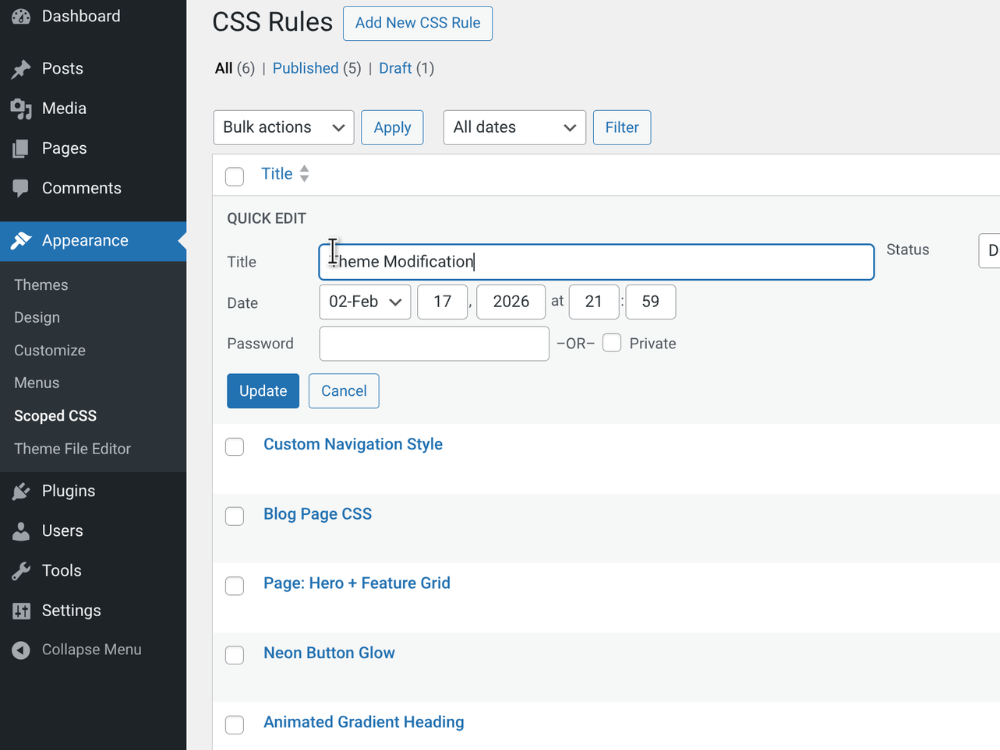
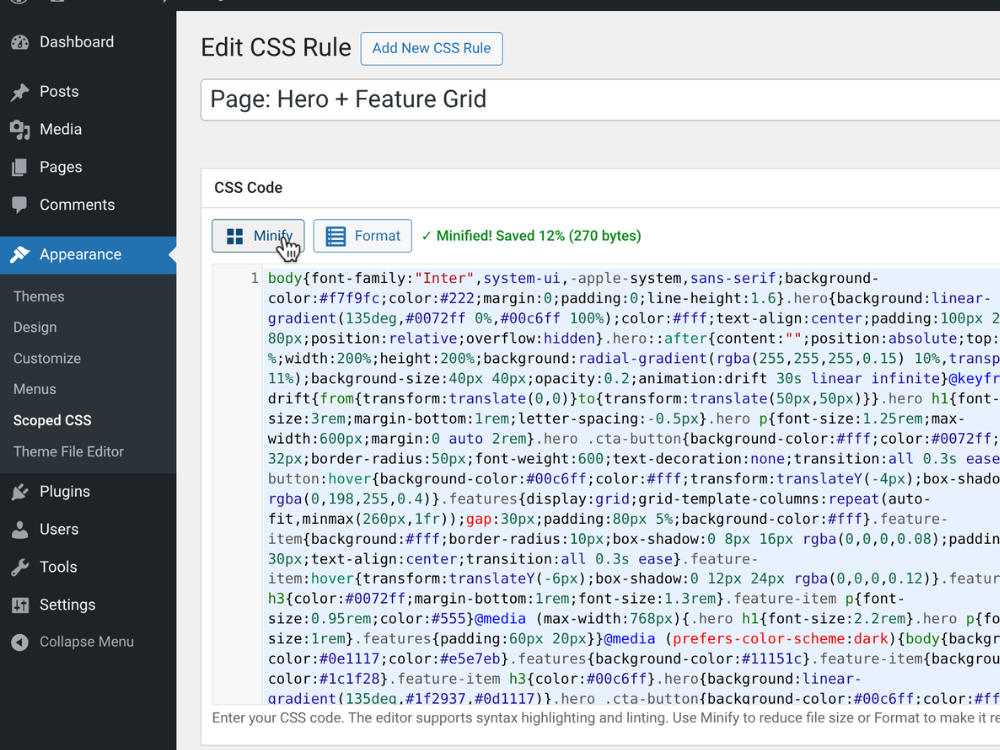
Release commit

diff --git a/readme.md b/readme.md
@@ -2,15 +2,31 @@
 
 [![WordPress](https://img.shields.io/badge/WordPress-5.3%2B-blue.svg)](https://wordpress.org/)
 [![PHP](https://img.shields.io/badge/PHP-7.2%2B-purple.svg)](https://php.net/)
-[![License](https://img.shields.io/badge/License-GPL%20v2-green.svg)](https://www.gnu.org/licenses/gpl-2.0.html)
+[![License](https://img.shields.io/badge/license-GPL--2.0-green.svg)](LICENSE)
+[![GitHub release](https://img.shields.io/github/v/release/Sulaiman-Dauda/Scoped-CSS?include_prereleases)](https://github.com/Sulaiman-Dauda/Scoped-CSS/releases)
 
-Load custom CSS based on page, post, or URL conditions. A lightweight conditional CSS manager for WordPress.
+**A lightweight conditional CSS manager for WordPress** — Load custom CSS based on page, post, or URL conditions.
 
-## Description
+---
 
-Scoped CSS allows you to add custom CSS rules with display conditions. Unlike traditional custom CSS plugins that apply styles globally, Scoped CSS lets you target specific pages, posts, post types, or URLs.
+## Table of Contents
 
-### Features
+- [Features](#features)
+- [Screenshots](#screenshots)
+- [Installation](#installation)
+- [Usage](#usage)
+- [Display Conditions](#display-conditions)
+- [WP-CLI Commands](#wp-cli-commands)
+- [FAQ](#faq)
+- [Contributing](#contributing)
+- [Changelog](#changelog)
+- [License](#license)
+
+---
+
+## Features
+
+Unlike traditional custom CSS plugins that apply styles globally, Scoped CSS lets you target specific pages, posts, post types, or URLs.
 
 - **Unlimited CSS Rules** – Create as many CSS rules as you need
 - **Conditional Loading** – Load CSS only where it's needed
@@ -20,31 +36,73 @@ Scoped CSS allows you to add custom CSS rules with display conditions. Unlike tr
 - **Native WordPress UI** – Clean, familiar admin interface
 - **Secure** – Proper capability checks and sanitization
 - **WP-CLI Support** – Manage rules from the command line
+- **Multisite Compatible** – Each site gets its own CSS rules
 
-### Display Conditions
+### Use Cases
 
-Each CSS rule can be targeted to:
+- Add custom styles to specific landing pages
+- Override theme styles on certain post types
+- Apply promotional banners only to specific URLs
+- Fix layout issues on individual pages without affecting the rest of the site
 
-| Condition       | Description                    |
-| --------------- | ------------------------------ |
-| Entire Site     | Apply everywhere               |
-| Front Page      | Homepage only                  |
-| Blog Page       | Posts listing page             |
-| 404 Page        | Error page                     |
-| Specific Page   | Target individual pages        |
-| Specific Post   | Target individual posts        |
-| Post Type       | All posts of a type            |
-| URL Exact Match | Match exact URL path           |
-| URL Contains    | Match URLs containing a string |
-| URL Starts With | Match URLs by prefix           |
+---
 
-Conditions can be combined with **AND/OR** logic for complex targeting.
+## Screenshots
+
+<table>
+  <tr>
+    <td align="center" width="50%">
+      <img src="assets/screenshot.png" alt="Scoped CSS rules overview" /><br />
+      <strong>Rules Overview</strong><br />
+      <sub>List view with status, targeting conditions, and quick actions</sub>
+    </td>
+    <td align="center" width="50%">
+      <img src="assets/screenshot-3.png" alt="CSS editor with IntelliSense" /><br />
+      <strong>CSS Editor</strong><br />
+      <sub>Syntax highlighting, linting, and code completion</sub>
+    </td>
+  </tr>
+  <tr>
+    <td align="center" width="50%">
+      <img src="assets/screenshot-1.png" alt="One-click CSS minification" /><br />
+      <strong>One-Click Minify</strong><br />
+      <sub>Optimize rule output directly from the editor</sub>
+    </td>
+    <td align="center" width="50%">
+      <img src="assets/screenshot-2.png" alt="Conditional CSS rendering" /><br />
+      <strong>Conditional Rendering</strong><br />
+      <sub>Page-level styles applied based on scoped rules</sub>
+    </td>
+  </tr>
+</table>
+
+---
 
 ## Installation
 
-1. Upload the `scoped-css` folder to `/wp-content/plugins/`
-2. Activate the plugin through the 'Plugins' menu in WordPress
-3. Navigate to **Appearance → Scoped CSS** to create your first CSS rule
+### Manual Installation (GitHub)
+
+1. Download the [latest release](https://github.com/Sulaiman-Dauda/Scoped-CSS/releases/latest) (`.zip` file)
+2. In WordPress, go to **Plugins → Add New → Upload Plugin**
+3. Upload the downloaded `.zip` file and click **Install Now**
+4. Activate the plugin
+5. Navigate to **Appearance → Scoped CSS** to create your first rule
+
+### Via Git
+
+```bash
+cd /path/to/wordpress/wp-content/plugins/
+git clone https://github.com/Sulaiman-Dauda/Scoped-CSS.git scoped-css
+```
+
+Then activate from **Plugins** in your WordPress admin.
+
+### Requirements
+
+- WordPress 5.3+
+- PHP 7.2+
+
+---
 
 ## Usage
 
@@ -62,7 +120,32 @@ Conditions can be combined with **AND/OR** logic for complex targeting.
 - Combine multiple conditions for precise targeting
 - Use "URL Contains" for wildcard-like matching
 
+---
+
+## Display Conditions
+
+Each CSS rule can be targeted to:
+
+| Condition       | Description                                        |
+| --------------- | -------------------------------------------------- |
+| Entire Site     | Apply everywhere                                   |
+| Front Page      | Homepage only                                      |
+| Blog Page       | Posts listing page                                 |
+| 404 Page        | Error page                                         |
+| Specific Page   | Target individual pages                            |
+| Specific Post   | Target individual posts                            |
+| Post Type       | All posts of a type (pages, posts, products, etc.) |
+| URL Exact Match | Match exact URL path                               |
+| URL Contains    | Match URLs containing a string                     |
+| URL Starts With | Match URLs by prefix                               |
+
+> **Pro tip:** Conditions can be combined with **AND/OR** logic for complex targeting.
+
+---
+
 ## WP-CLI Commands
+
+Manage your CSS rules from the command line:
 
 ```bash
 # List all CSS rules
@@ -79,12 +162,9 @@ wp scoped-css show <id>
 wp scoped-css cache-clear
 ```
 
-## Requirements
+---
 
-- WordPress 5.3 or higher
-- PHP 7.2 or higher
-
-## Frequently Asked Questions
+## FAQ
 
 ### Does this plugin slow down my site?
 
@@ -97,7 +177,37 @@ No. Scoped CSS is optimized for performance:
 
 ### Can I migrate from Simple Custom CSS?
 
-Yes! When you activate Scoped CSS, any existing CSS from Simple Custom CSS will be automatically migrated.
+Yes! When you activate Scoped CSS, any existing CSS from Simple Custom CSS will be automatically migrated to a new rule called "Migrated Global CSS" with "Entire Site" targeting.
+
+### Can I use this alongside other CSS plugins?
+
+Yes. Scoped CSS outputs standard `<style>` tags and doesn't interfere with other plugins.
+
+### Is it multisite compatible?
+
+Yes, each site in a multisite network can have its own CSS rules.
+
+---
+
+## Contributing
+
+Contributions are welcome! Here's how you can help:
+
+1. **Fork** the repository
+2. **Create** a feature branch: `git checkout -b feature/my-feature`
+3. **Commit** your changes: `git commit -m 'Add my feature'`
+4. **Push** to the branch: `git push origin feature/my-feature`
+5. **Open** a Pull Request
+
+### Reporting Bugs
+
+Found a bug? [Open an issue](https://github.com/Sulaiman-Dauda/Scoped-CSS/issues/new) with:
+
+- WordPress and PHP versions
+- Steps to reproduce
+- Expected vs actual behavior
+
+---
 
 ## Changelog
 
@@ -109,13 +219,27 @@ Yes! When you activate Scoped CSS, any existing CSS from Simple Custom CSS will 
 - CodeMirror editor integration
 - CSS minify and format tools
 - AND/OR condition logic
+- Rate-limited AJAX endpoints
+- CSS validation with dangerous pattern detection
 - WP-CLI support
 - Automatic migration from Simple Custom CSS
 
+---
+
 ## License
 
-GPL v2 or later - https://www.gnu.org/licenses/gpl-2.0.html
+This project is licensed under the **GPL v2 or later** — see the [LICENSE](LICENSE) file for details.
+
+---
 
 ## Author
 
-**Sulaiman Dauda** - [GitHub](https://github.com/Sulaiman-Dauda)
+**Sulaiman Dauda**
+
+- GitHub: [@Sulaiman-Dauda](https://github.com/Sulaiman-Dauda)
+
+---
+
+<p align="center">
+  <strong>If you find this plugin useful, consider giving it a ⭐ on GitHub!</strong>
+</p>
